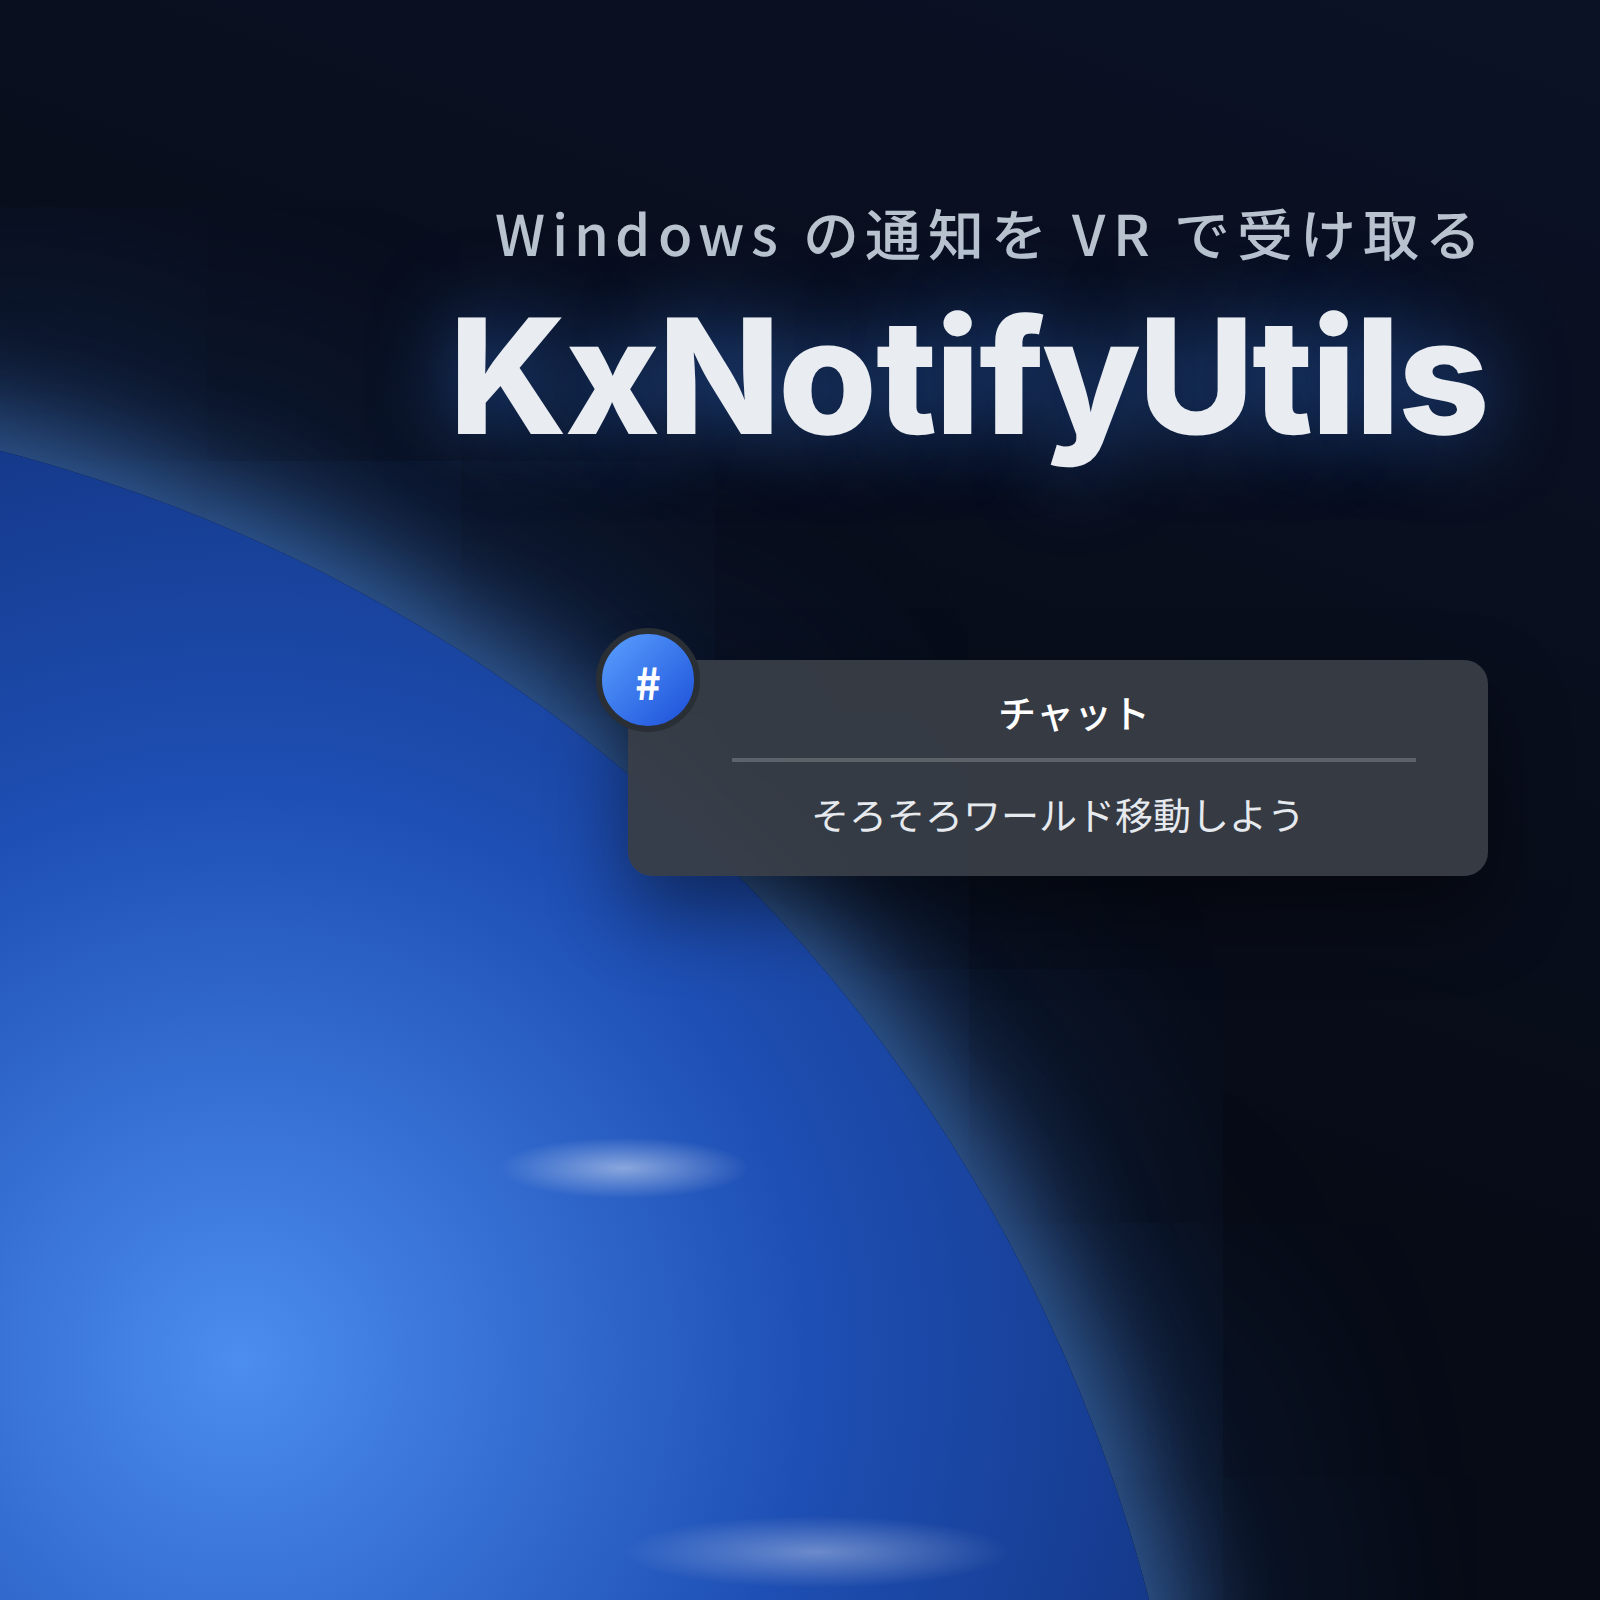
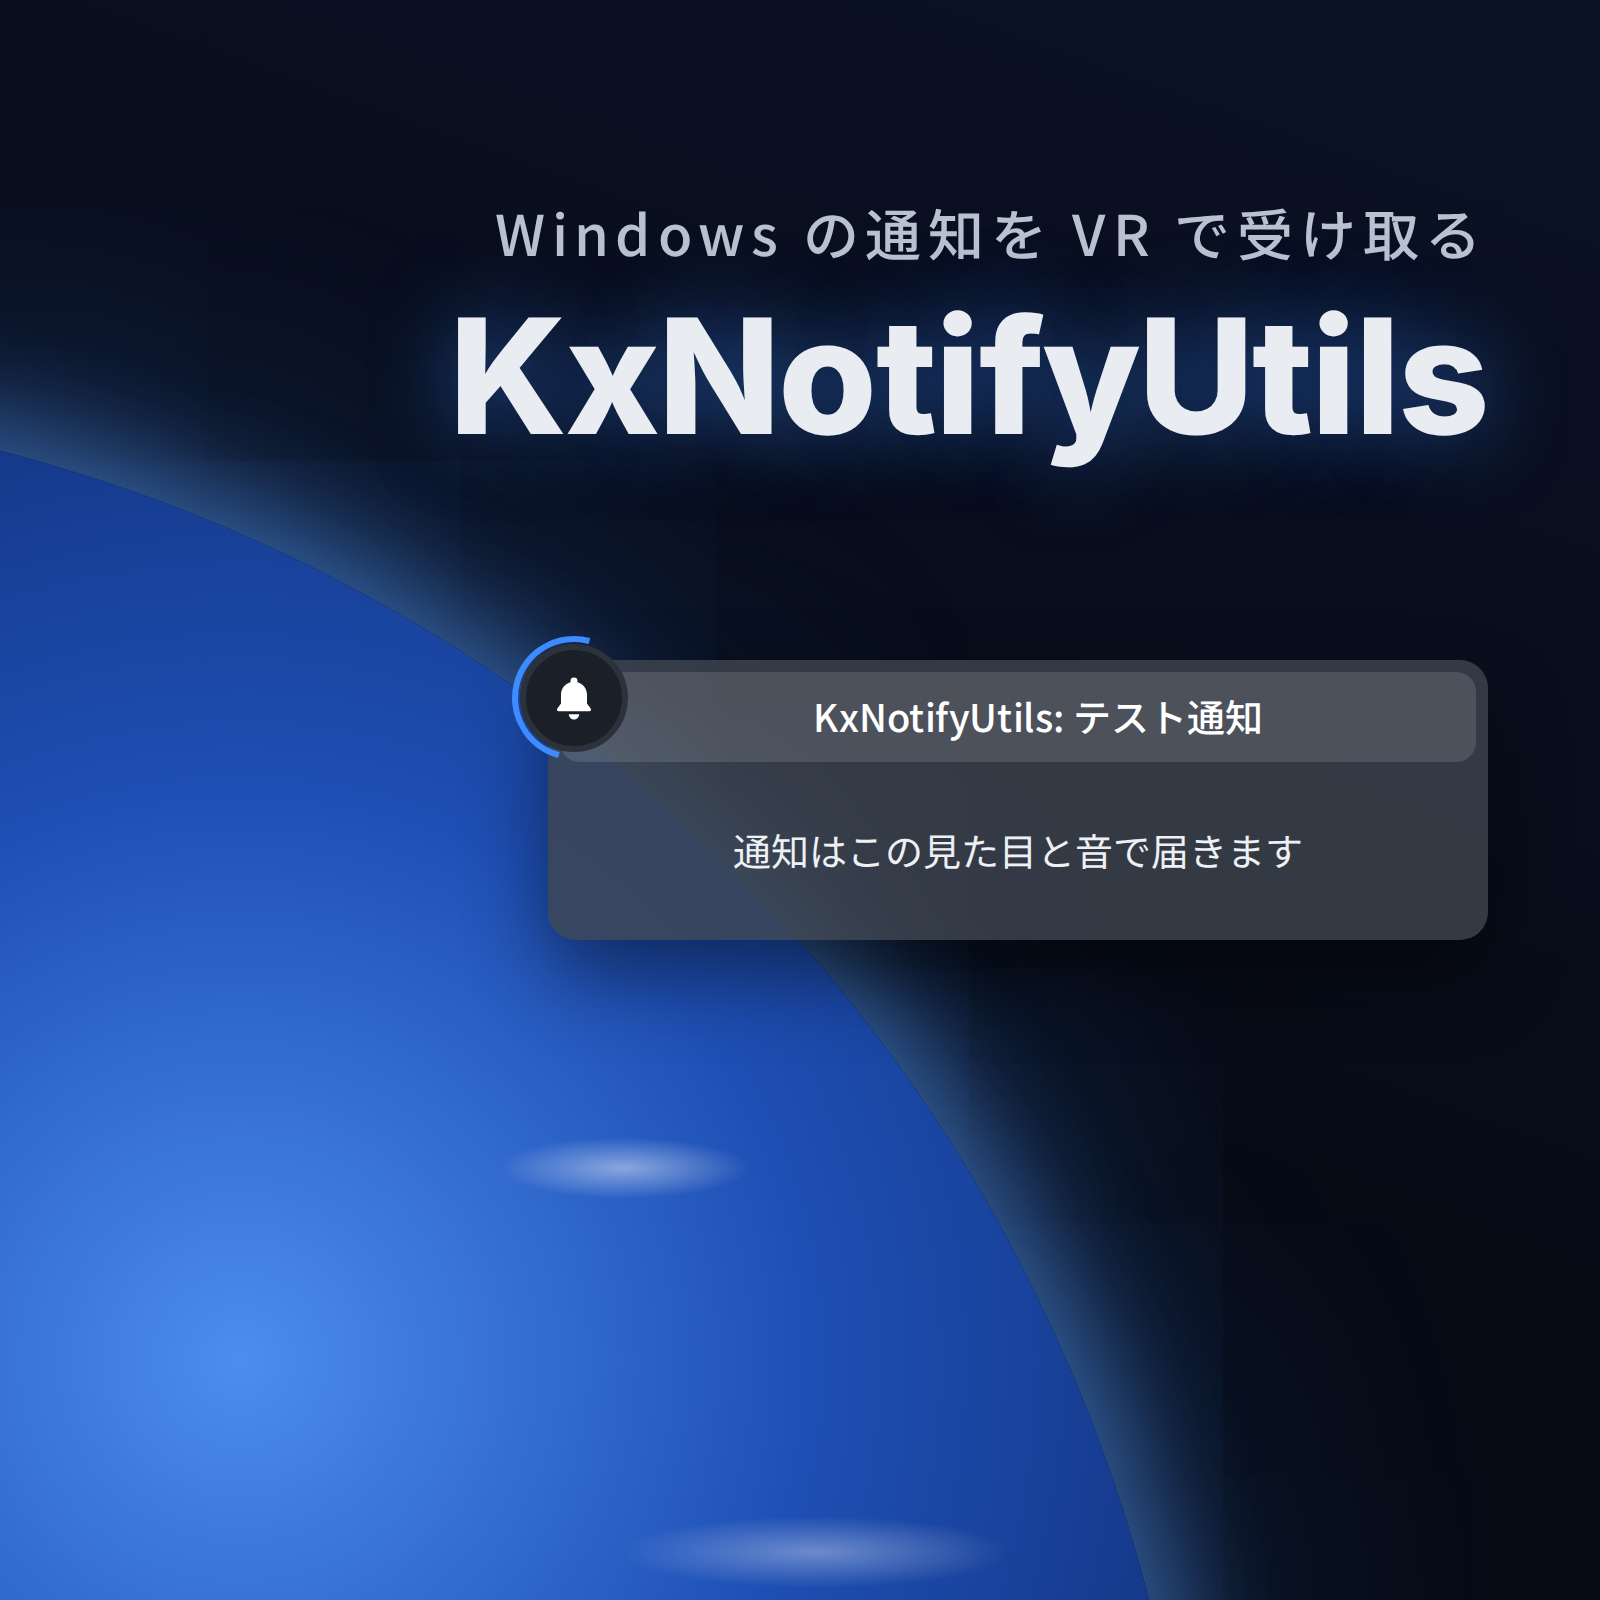
docs(booth): 通知カードを XSOverlay に実際に出るテスト通知の見た目に合わせる
丸いアイコンと青い弧、明るめのタイトル帯、本文の順に並ぶ形にし、文言も実物のテスト通知と同じにする。

Claude-Session: https://claude.ai/code/session_01HaaNd64ErN2sput29WDtM3

Changed region(s): [[0.3125, 0.375, 0.9375, 0.625]]

diff --git a/booth/thumbnail.html b/booth/thumbnail.html
@@ -34,29 +34,33 @@
   .head .lead { font-size: 28px; font-weight: 500; letter-spacing: 0.12em; }
   .head .name { font-size: 92px; font-weight: 800; letter-spacing: -0.015em; line-height: 1.1; margin-top: 8px; }
 
-  /* XSOverlay の通知ポップアップを模したカード。
-     左上に丸いアイコン、中央寄せのタイトル、区切り線、本文の順に並ぶ。 */
+  /* XSOverlay に実際に出る KxNotifyUtils の通知を模したカード。
+     半透明の灰色の板に、明るめのタイトル帯と本文。左上に丸いアイコンと青い弧が付く。 */
   .toast {
     position: absolute; left: 190px; right: 190px;
-    background: rgba(56, 62, 70, 0.94);
-    border-radius: 12px; padding: 0 28px 18px;
+    background: rgba(62, 68, 78, 0.82);
+    border-radius: 14px; padding: 6px 6px 8px;
     text-align: center; color: #fff;
     box-shadow: 0 18px 40px rgba(0, 0, 0, 0.45);
   }
   .toast .ic {
-    position: absolute; left: -16px; top: -16px;
-    width: 52px; height: 52px; border-radius: 50%;
-    border: 3px solid #2A2F36;
+    position: absolute; left: -14px; top: -8px; z-index: 1;
+    width: 54px; height: 54px; border-radius: 50%;
+    background: #1B2028; border: 3px solid #2C323C;
     display: grid; place-items: center;
-    font-weight: 900; font-size: 22px; color: #fff;
-    background: linear-gradient(135deg, #5AA0FF, var(--eye-deep));
   }
+  .toast .ic::before {
+    content: ""; position: absolute; inset: -7px; border-radius: 50%;
+    border: 3px solid var(--eye); border-right-color: transparent; border-bottom-color: transparent;
+    transform: rotate(-30deg);
+  }
+  .toast .ic svg { width: 26px; height: 26px; fill: #fff; }
   .toast .t {
     font-size: 19px; font-weight: 500; line-height: 1.3;
-    margin: 0 8px 0 24px; padding: 14px 0 10px;
-    border-bottom: 2px solid rgba(255, 255, 255, 0.2);
+    background: rgba(255, 255, 255, 0.12); border-radius: 10px;
+    padding: 10px 24px 10px 44px;
   }
-  .toast .b { font-size: 19px; line-height: 1.45; padding-top: 12px; color: #E6EAEF; }
+  .toast .b { font-size: 19px; line-height: 1.45; padding: 30px 24px 24px; color: #EDF0F4; }
 
   /* JustNotification（星空と山の影、中央に一行と商品名、その下に通知）と構成が重ならないよう、
      星空と地平の影は使わず、文字も中央に積まない。 */
@@ -79,7 +83,7 @@
   #a .head { left: auto; right: 56px; top: 96px; text-align: right; }
   #a .head .lead { color: var(--silver-dim); }
   #a .head .name { color: var(--silver); font-size: 80px; text-shadow: 0 0 40px rgba(61, 139, 255, 0.5); }
-  #a .toast { left: auto; right: 56px; width: 430px; top: 330px; }
+  #a .toast { left: auto; right: 56px; width: 470px; top: 330px; }
 
   /* ---------- B: 黒と青 ---------- */
   /* 黒い服に青い差し色。斜めの青い帯に商品名を乗せる */
@@ -162,7 +166,7 @@
     <div class="lead">Windows の通知を VR で受け取る</div>
     <div class="name latin">KxNotifyUtils</div>
   </div>
-  <div class="toast"><div class="ic">#</div><div class="t">チャット</div><div class="b">そろそろワールド移動しよう</div></div>
+  <div class="toast"><div class="ic"><svg viewBox="0 0 24 24"><path d="M12 2.5a1.6 1.6 0 0 1 1.6 1.6v.6c2.6.7 4.4 3 4.4 5.8v4l1.7 2.3a.8.8 0 0 1-.6 1.3H4.9a.8.8 0 0 1-.6-1.3L6 14.5v-4c0-2.8 1.8-5.1 4.4-5.8v-.6A1.6 1.6 0 0 1 12 2.5zM9.6 19.5h4.8a2.4 2.4 0 0 1-4.8 0z"/></svg></div><div class="t">KxNotifyUtils: テスト通知</div><div class="b">通知はこの見た目と音で届きます</div></div>
 </section>
 
 <!-- B: 黒と青。斜めの青い帯に商品名 -->
@@ -172,7 +176,7 @@
     <div class="lead">HMD を外さずに通知を確認</div>
     <div class="name latin">KxNotifyUtils</div>
   </div>
-  <div class="toast"><div class="ic">#</div><div class="t">チャット</div><div class="b">そろそろワールド移動しよう</div></div>
+  <div class="toast"><div class="ic"><svg viewBox="0 0 24 24"><path d="M12 2.5a1.6 1.6 0 0 1 1.6 1.6v.6c2.6.7 4.4 3 4.4 5.8v4l1.7 2.3a.8.8 0 0 1-.6 1.3H4.9a.8.8 0 0 1-.6-1.3L6 14.5v-4c0-2.8 1.8-5.1 4.4-5.8v-.6A1.6 1.6 0 0 1 12 2.5zM9.6 19.5h4.8a2.4 2.4 0 0 1-4.8 0z"/></svg></div><div class="t">KxNotifyUtils: テスト通知</div><div class="b">通知はこの見た目と音で届きます</div></div>
 </section>
 
 <!-- C: カフェの夜。文字は左、通知は右下 -->
@@ -188,14 +192,14 @@
     <div class="lead">Windows の通知を VR で受け取る</div>
     <div class="name latin">Kx<b>Notify</b>Utils</div>
   </div>
-  <div class="toast"><div class="ic">#</div><div class="t">チャット</div><div class="b">そろそろワールド移動しよう</div></div>
+  <div class="toast"><div class="ic"><svg viewBox="0 0 24 24"><path d="M12 2.5a1.6 1.6 0 0 1 1.6 1.6v.6c2.6.7 4.4 3 4.4 5.8v4l1.7 2.3a.8.8 0 0 1-.6 1.3H4.9a.8.8 0 0 1-.6-1.3L6 14.5v-4c0-2.8 1.8-5.1 4.4-5.8v-.6A1.6 1.6 0 0 1 12 2.5zM9.6 19.5h4.8a2.4 2.4 0 0 1-4.8 0z"/></svg></div><div class="t">KxNotifyUtils: テスト通知</div><div class="b">通知はこの見た目と音で届きます</div></div>
 </section>
 
 <!-- D: 銀白。通知が上、商品名が下 -->
 <section class="cand" id="d">
   <div class="strands"></div>
   <div class="glow"></div>
-  <div class="toast"><div class="ic">#</div><div class="t">チャット</div><div class="b">そろそろワールド移動しよう</div></div>
+  <div class="toast"><div class="ic"><svg viewBox="0 0 24 24"><path d="M12 2.5a1.6 1.6 0 0 1 1.6 1.6v.6c2.6.7 4.4 3 4.4 5.8v4l1.7 2.3a.8.8 0 0 1-.6 1.3H4.9a.8.8 0 0 1-.6-1.3L6 14.5v-4c0-2.8 1.8-5.1 4.4-5.8v-.6A1.6 1.6 0 0 1 12 2.5zM9.6 19.5h4.8a2.4 2.4 0 0 1-4.8 0z"/></svg></div><div class="t">KxNotifyUtils: テスト通知</div><div class="b">通知はこの見た目と音で届きます</div></div>
   <div class="head">
     <div class="lead">Windows の通知を VR で受け取る</div>
     <div class="name latin">Kx<b>Notify</b>Utils</div>
